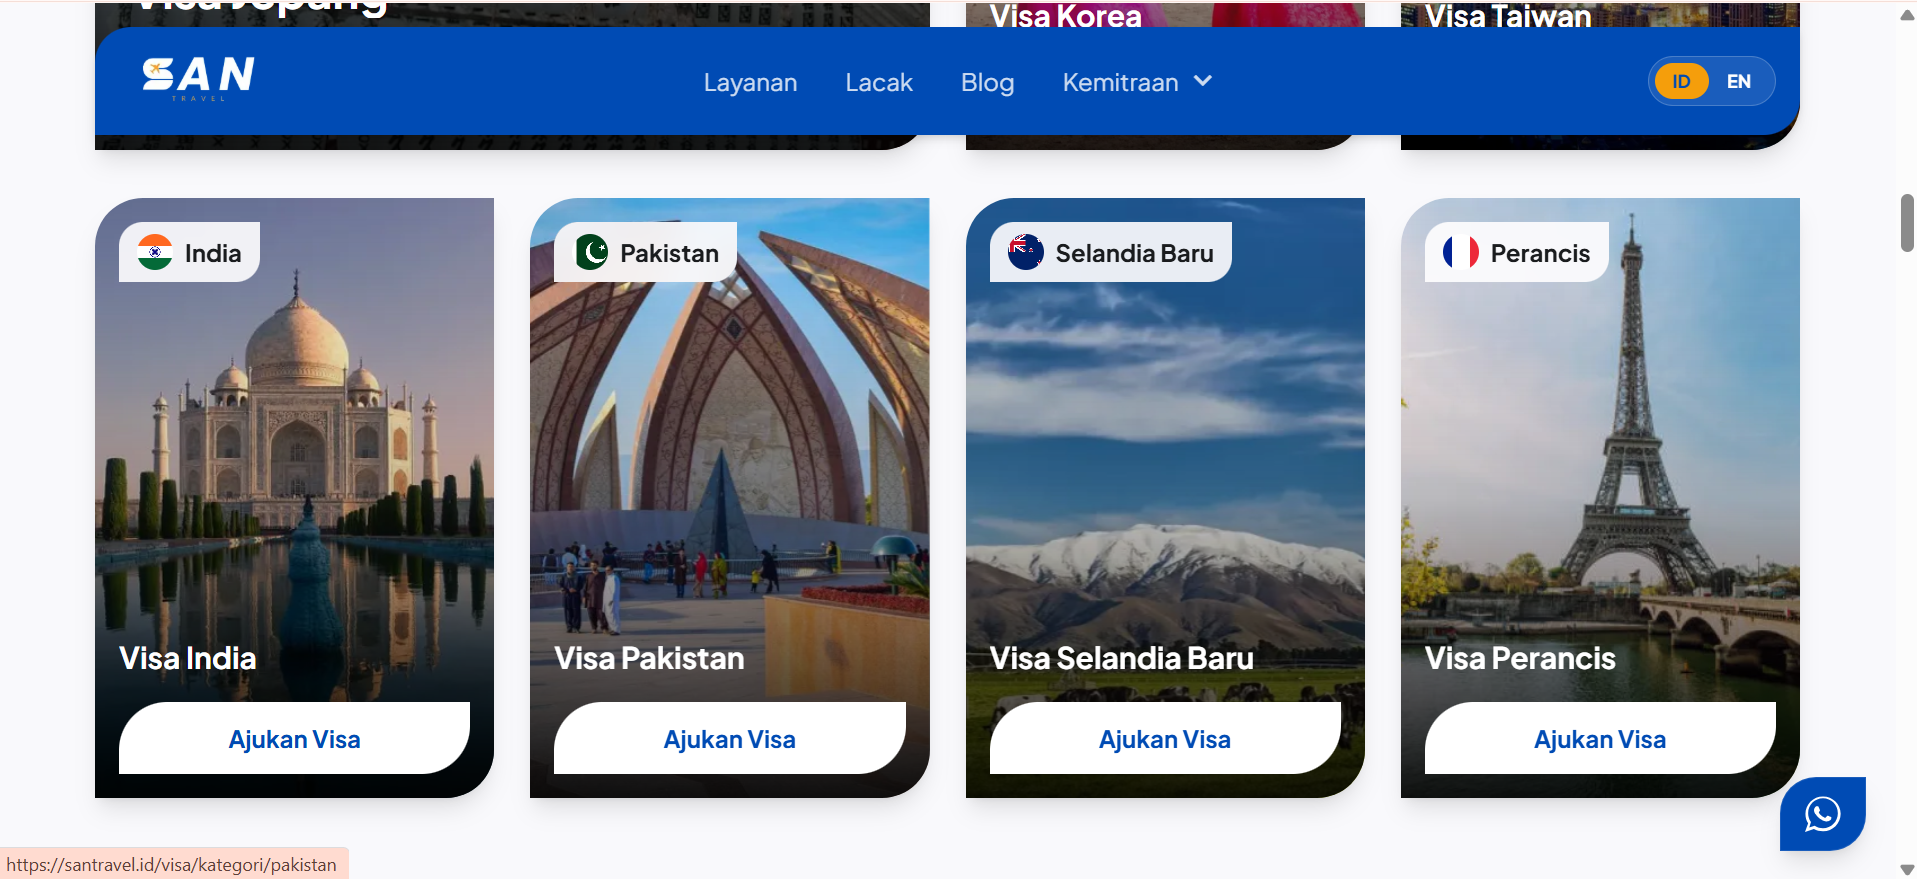
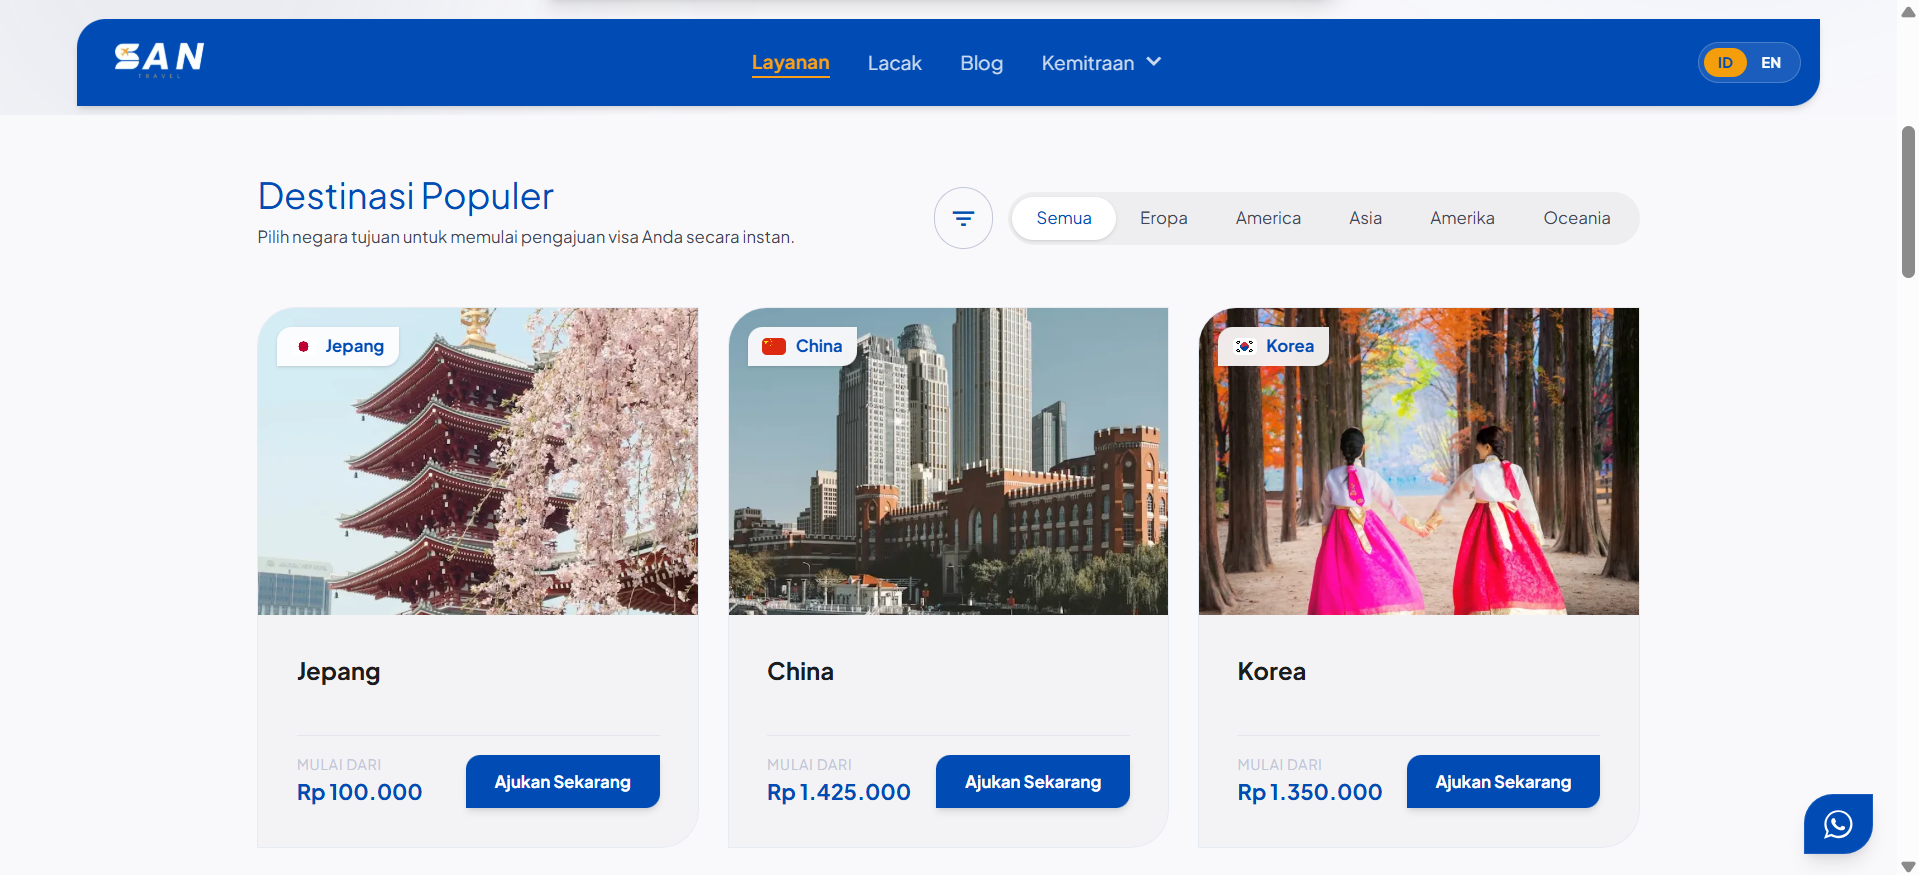
add : img santravel

diff --git a/project-santravel.html b/project-santravel.html
@@ -135,6 +135,8 @@
                 <div class="swiper mySwiper h-full">
                     <div class="swiper-wrapper">
                         <div class="swiper-slide"><img src="assets/santravel/santravel1.png" class="w-full h-full object-cover" alt="Katalog Paket Wisata"></div>
+                        <div class="swiper-slide"><img src="assets/santravel/santravel2.png" class="w-full h-full object-cover" alt="Katalog Paket Wisata"></div>
+                        <div class="swiper-slide"><img src="assets/santravel/santravel3.png" class="w-full h-full object-cover" alt="Katalog Paket Wisata"></div>
                         <div class="swiper-slide"><img src="assets/santravel/santravel.png" class="w-full h-full object-cover" alt="Halaman Utama"></div>
                         
                     </div>
